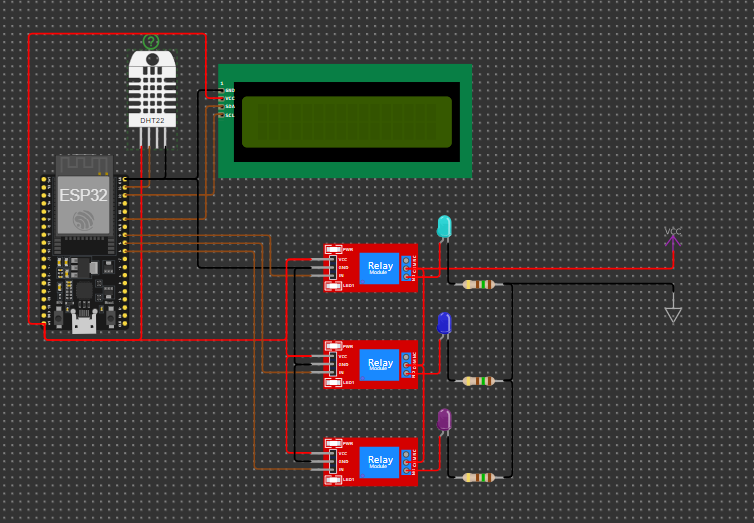
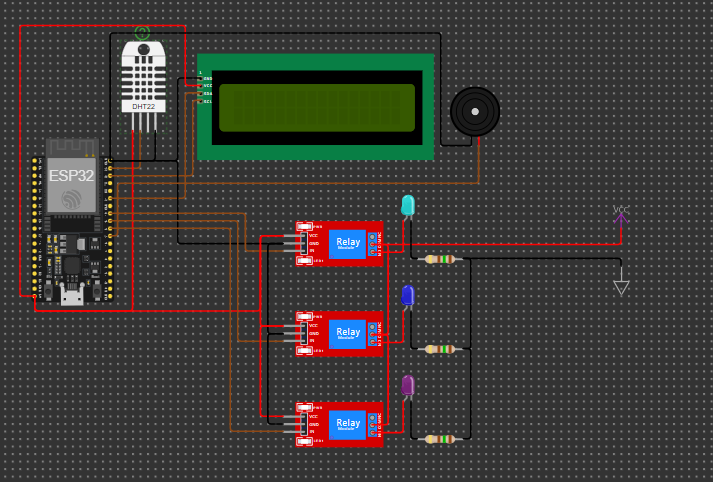
feat: Alerta de Condições Críticas - Montagem do circuito eletrônico. - configuração e definição do pino de saída para o Buzzer receber o sinal. - Função para tratar lógica de quando ativar alerta sonoro. - Chamada da função no programa principal. - Captura do retorno de status e exibição no log de 

Changed region(s): [[0.0, 0.0, 1.0, 0.9959]]

diff --git a/tests/Irrigação/testes.md b/tests/Irrigação/testes.md
@@ -77,25 +77,32 @@
         <td>Resfriamento é desativado</td>
     </tr>
     <tr>
-        <td><input type="checkbox"></td>
+        <td><input type="checkbox" checked></td>
         <td>11</td>
         <td>Temperatura = -10ºC</td>
         <td>Buzzer é ativado para alerta sonoro</td>
         <td>Alerta sonoro é emitido</td>
     </tr>
     <tr>
-        <td><input type="checkbox"></td>
+        <td><input type="checkbox" checked></td>
         <td>12</td>
-        <td>Temperatura = -36ºC</td>
-        <td>Buzzer é ativado para alerta sonoro</td>
-        <td>Alerta sonoro é emitido</td>
+        <td>Temperatura = 30ºC</td>
+        <td>Buzzer é desativado para alerta sonoro</td>
+        <td>Alerta sonoro não é emitido</td>
     </tr>
     <tr>
-        <td><input type="checkbox"></td>
+        <td><input type="checkbox" checked></td>
         <td>13</td>
         <td>Umidade = 50%</td>
         <td>Buzzer é ativado para alerta sonoro</td>
         <td>Alerta sonoro é emitido</td>
+    </tr>
+    <tr>
+        <td><input type="checkbox" checked></td>
+        <td>14</td>
+        <td>Umidade = 70%</td>
+        <td>Buzzer é desativado para alerta sonoro</td>
+        <td>Alerta sonoro não é emitido</td>
     </tr>
     <!-- Continue adding rows as needed -->
 </table>
